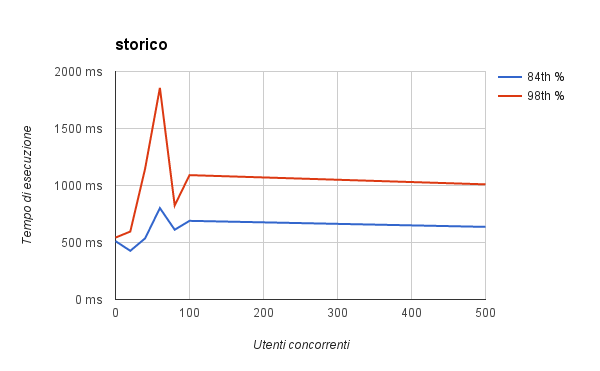
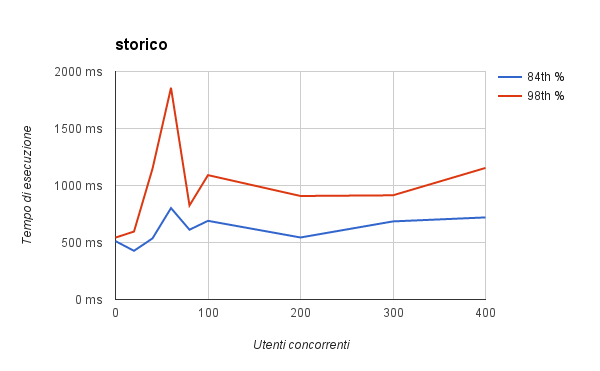
Added 200, 300, 400 concurrent users tests

diff --git a/results/2016-23-02/README.md b/results/2016-23-02/README.md
@@ -78,6 +78,42 @@
 
 | Tipo istanza | Numero istanze | Utenti concorrenti |
 | ------------ | -------------- | ------------------ |
+| m4.large     | 4 (autoscaled) | 200 + 1            |
+
+| Scenario      | 84th % | 98th % | Media | SD   | Max  | Min  |
+| --------      | ------ | ------ | ----- | ---- | ---  | ---  |
+| login         | 224    | 909    | 143   | 206  | 1256 | 33   |
+| login+storico | 760    | 1639   | 593   | 318  | 2111 | 327  |
+| storico       | 544    | 908    | 420   | 143  | 978  | 290  |
+
+---
+
+| Tipo istanza | Numero istanze | Utenti concorrenti |
+| ------------ | -------------- | ------------------ |
+| m4.large     | 6 (autoscaled) | 300 + 1            |
+
+| Scenario      | 84th % | 98th % | Media | SD   | Max  | Min  |
+| --------      | ------ | ------ | ----- | ---- | ---  | ---  |
+| login         | 176    | 608    | 102   | 131  | 811  | 33   |
+| login+storico | 792    | 1252   | 572   | 239  | 1691 | 328  |
+| storico       | 685    | 914    | 484   | 184  | 1061 | 299  |
+
+---
+
+| Tipo istanza | Numero istanze | Utenti concorrenti |
+| ------------ | -------------- | ------------------ |
+| m4.large     | 8 (autoscaled) | 400 + 1            |
+
+| Scenario      | 84th % | 98th % | Media | SD   | Max  | Min  |
+| --------      | ------ | ------ | ----- | ---- | ---  | ---  |
+| login         | 279    | 842    | 160   | 200  | 1108 | 34   |
+| login+storico | 872    | 1905   | 635   | 338  | 1985 | 331  |
+| storico       | 720    | 1154   | 516   | 226  | 1524 | 299  |
+
+---
+
+| Tipo istanza | Numero istanze | Utenti concorrenti |
+| ------------ | -------------- | ------------------ |
 | m4.large     | 10             | 500 + 1            |
 
 | Scenario      | 84th % | 98th % | Media | SD   | Max  | Min  |
